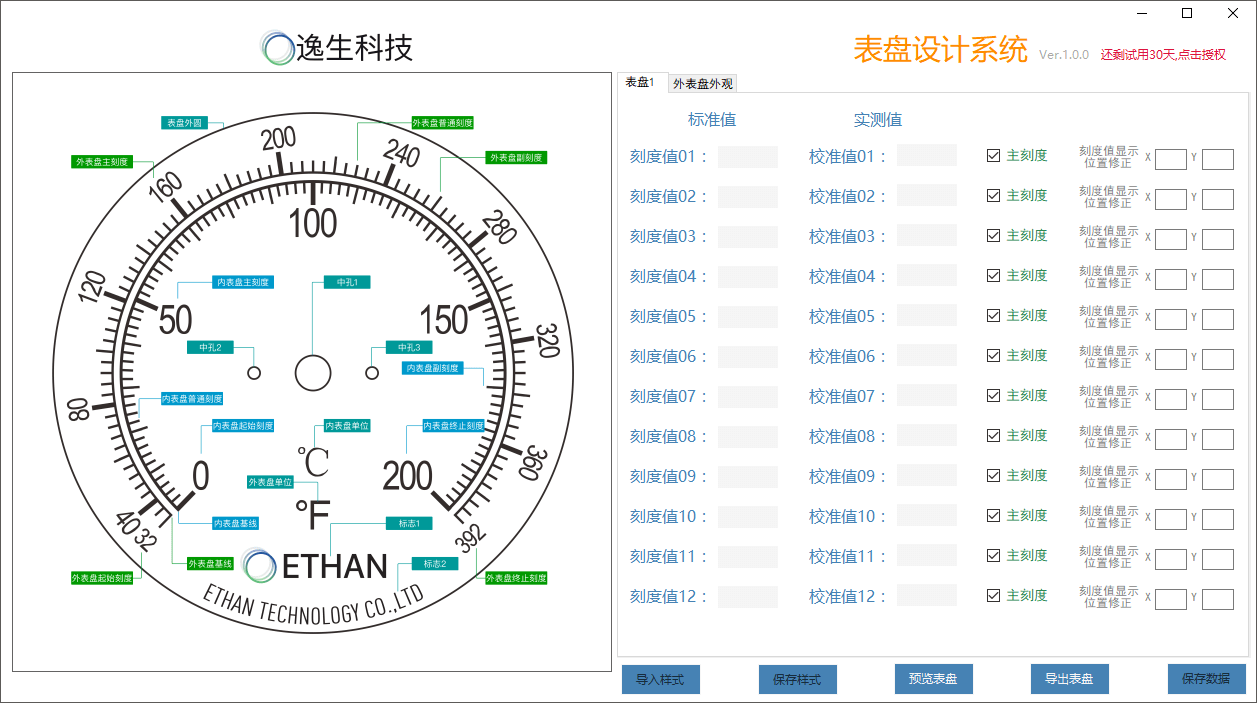
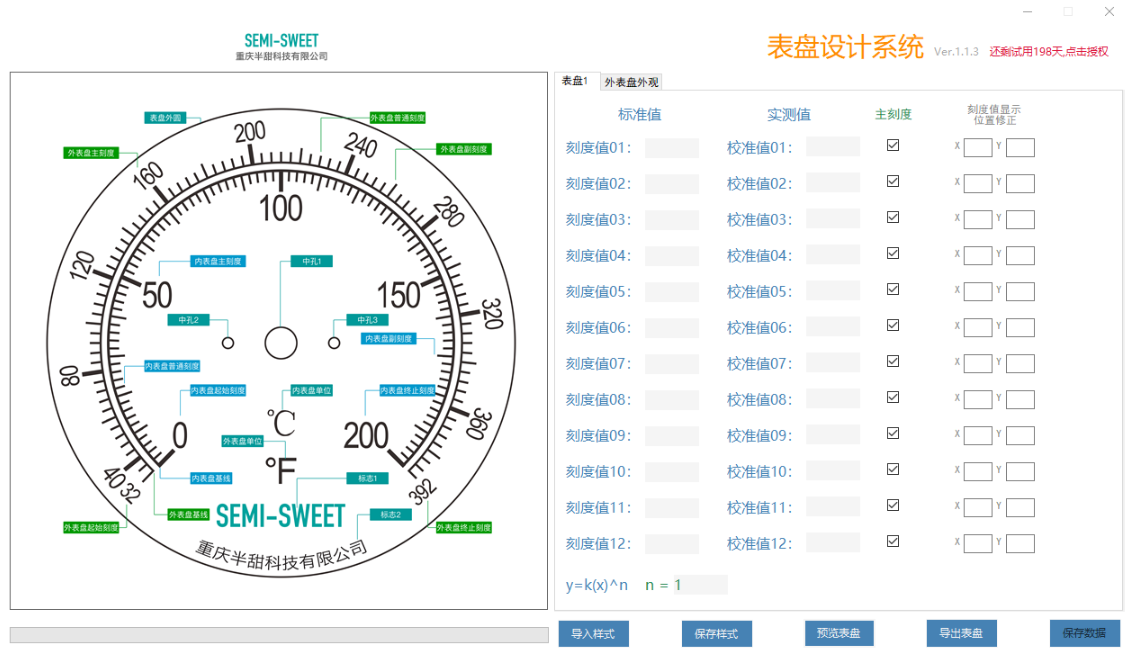
Site updated: 2018-06-16 00:11:35

diff --git a/index.html b/index.html
@@ -4,22 +4,21 @@
 
 <p><img src="../../../../../2017/11/29/表盘校准设计系统/screenshot_1.png" alt="screenshot_1.png"></p>
 <hr>
-<h3 id="2017年12月28日"><a href="#2017年12月28日" class="headerlink" title="2017年12月28日"></a><code>2017年12月28日</code></h3><blockquote>
-<p>更新V1.0.2</p>
+<h3 id="2018年06月15日"><a href="#2018年06月15日" class="headerlink" title="2018年06月15日"></a><code>2018年06月15日</code></h3><blockquote>
+<p>更新<b>V1.1.3</b></p>
 <ul>
-<li>实装Logo图标绘制功能</li>
-<li>修复日常BUG</li>
+<li>调整普通坐标渐进绘制函数</li>
+<li>优化显示表盘刻度值位置</li>
+<li>已知BUG——不选定【主坐标】绘制不正确</li>
 </ul>
 </blockquote>
 <hr>
-<h3 id="2017年12月05日"><a href="#2017年12月05日" class="headerlink" title="2017年12月05日"></a><code>2017年12月05日</code></h3><blockquote>
-<p>更新<b>V1.0.1</b></p>
+<h3 id="2018年06月11日"><a href="#2018年06月11日" class="headerlink" title="2018年06月11日"></a><code>2018年06月11日</code></h3><blockquote>
+<p>更新<b>V1.1.2</b></p>
 <ul>
-<li>新增外表盘单位绘制功能，支持单位名称、字号、颜色、位置自定义</li>
-<li>新增作业进度条及Loading提示界面</li>
-<li>新增更新历史界面，点击《表盘设计系统》即可打开、关闭该界面</li>
-<li>新增高分辨率显示器支持</li>
-<li>修复未关闭本系统无法将导出的矢量图导入第三方绘图软件的BUG</div><a href="/2017/11/29/表盘校准设计系统/" class="read-more">...more</a></article></li><li class="post-list-item"><article class="post-block"><h2 class="post-title"><a href="/2016/06/30/i.MX28-Linux移植/" class="post-title-link">i.MX28-Linux移植</a></h2><div class="post-info">Jun 30, 2016</div><div class="post-content"><p>1-3步均为未成功的例子，可自行忽略从第4步开始</p>
+<li>实装导入、导出样式到excel文件</li>
+<li>新增普通坐标渐进绘制函数，可设置任意次方函数</li>
+<li>优化绘图效率</div><a href="/2017/11/29/表盘校准设计系统/" class="read-more">...more</a></article></li><li class="post-list-item"><article class="post-block"><h2 class="post-title"><a href="/2016/06/30/i.MX28-Linux移植/" class="post-title-link">i.MX28-Linux移植</a></h2><div class="post-info">Jun 30, 2016</div><div class="post-content"><p>1-3步均为未成功的例子，可自行忽略从第4步开始</p>
 <h3 id="1-确定开发环境为Ubuntu-10-04"><a href="#1-确定开发环境为Ubuntu-10-04" class="headerlink" title="1.确定开发环境为Ubuntu-10.04"></a>1.确定开发环境为Ubuntu-10.04</h3><h3 id="2-更新软件源"><a href="#2-更新软件源" class="headerlink" title="2.更新软件源"></a>2.更新软件源</h3><figure class="highlight bash"><table><tr><td class="gutter"><pre><span class="line">1</span><br></pre></td><td class="code"><pre><span class="line">$ sudo gedit /etc/apt/sources.list</span><br></pre></td></tr></table></figure>
 <p>在弹出的文本框中将原始内容全部清空，修改成下面的旧源，保存并退出<br><figure class="highlight plain"><table><tr><td class="gutter"><pre><span class="line">1</span><br><span class="line">2</span><br><span class="line">3</span><br><span class="line">4</span><br><span class="line">5</span><br><span class="line">6</span><br><span class="line">7</span><br><span class="line">8</span><br><span class="line">9</span><br><span class="line">10</span><br></pre></td><td class="code"><pre><span class="line">deb http://old-releases.ubuntu.com/ubuntu/ natty main restricted universe multiverse</span><br><span class="line">deb http://old-releases.ubuntu.com/ubuntu/ natty-security main restricted universe multiverse</span><br><span class="line">deb http://old-releases.ubuntu.com/ubuntu/ natty-updates main restricted universe multiverse</span><br><span class="line">deb http://old-releases.ubuntu.com/ubuntu/ natty-proposed main restricted universe multiverse</span><br><span class="line">deb http://old-releases.ubuntu.com/ubuntu/ natty-backports main restricted universe multiverse</span><br><span class="line">deb-src http://old-releases.ubuntu.com/ubuntu/ natty main restricted universe multiverse</span><br><span class="line">deb-src http://old-releases.ubuntu.com/ubuntu/ natty-security main restricted universe multiverse</span><br><span class="line">deb-src http://old-releases.ubuntu.com/ubuntu/ natty-updates main restricted universe multiverse</span><br><span class="line">deb-src http://old-releases.ubuntu.com/ubuntu/ natty-proposed main restricted universe multiverse</span><br><span class="line">deb-src http://old-releases.ubuntu.com/ubuntu/ natty-backports main restricted universe multiverse</span><br></pre></td></tr></table></figure></p>
 <p>更新源<br><figure class="highlight bash"><table><tr><td class="gutter"><pre><span class="line">1</span><br></pre></td><td class="code"><pre><span class="line">$ sudo apt-get update</span><br></pre></td></tr></table></figure></p>

diff --git a/2017/11/29/表盘校准设计系统/index.html b/2017/11/29/表盘校准设计系统/index.html
@@ -2,8 +2,26 @@
 
 <p><img src="../../../../../2017/11/29/表盘校准设计系统/screenshot_1.png" alt="screenshot_1.png"></p>
 <hr>
+<h3 id="2018年06月15日"><a href="#2018年06月15日" class="headerlink" title="2018年06月15日"></a><code>2018年06月15日</code></h3><blockquote>
+<p>更新<b>V1.1.3</b></p>
+<ul>
+<li>调整普通坐标渐进绘制函数</li>
+<li>优化显示表盘刻度值位置</li>
+<li>已知BUG——不选定【主坐标】绘制不正确</li>
+</ul>
+</blockquote>
+<hr>
+<h3 id="2018年06月11日"><a href="#2018年06月11日" class="headerlink" title="2018年06月11日"></a><code>2018年06月11日</code></h3><blockquote>
+<p>更新<b>V1.1.2</b></p>
+<ul>
+<li>实装导入、导出样式到excel文件</li>
+<li>新增普通坐标渐进绘制函数，可设置任意次方函数</li>
+<li>优化绘图效率<a id="more"></a></li>
+</ul>
+</blockquote>
+<hr>
 <h3 id="2017年12月28日"><a href="#2017年12月28日" class="headerlink" title="2017年12月28日"></a><code>2017年12月28日</code></h3><blockquote>
-<p>更新V1.0.2</p>
+<p>更新<b>V1.0.2</b></p>
 <ul>
 <li>实装Logo图标绘制功能</li>
 <li>修复日常BUG</li>
@@ -17,7 +35,7 @@
 <li>新增作业进度条及Loading提示界面</li>
 <li>新增更新历史界面，点击《表盘设计系统》即可打开、关闭该界面</li>
 <li>新增高分辨率显示器支持</li>
-<li>修复未关闭本系统无法将导出的矢量图导入第三方绘图软件的BUG<a id="more"></a></li>
+<li>修复未关闭本系统无法将导出的矢量图导入第三方绘图软件的BUG</li>
 </ul>
 </blockquote>
 <hr>
@@ -30,7 +48,7 @@
 <li>支持初始默认数据导入</li>
 </ul>
 </blockquote>
-<p><img src="../../../../../2017/11/29/表盘校准设计系统/screenshot_2.png" alt="screenshot_2.png"><br><br></p>
+<p><img src="../../../../../2017/11/29/表盘校准设计系统/screenshot_2.png" alt="screenshot_2.png"><br><br><br><img src="../../../../../2017/11/29/表盘校准设计系统/screenshot_2.png" alt="screenshot_3.png"><br><br></p>
 </div></article></div><p style="text-align:center"><a href="" class="donate-link"><img src="/donate.png" alt="donate" width="50%"></a></p></main><footer><div class="paginator"><a href="/2017/12/15/实现用户管理springboot+react+dva+antd/" class="prev">PREV</a><a href="/2016/06/30/i.MX28-Linux移植/" class="next">NEXT</a></div><div id="disqus_thread"></div><script>var disqus_shortname = 'eseries';
 var disqus_identifier = '2017/11/29/表盘校准设计系统/';
 var disqus_title = '表盘校准设计系统';
